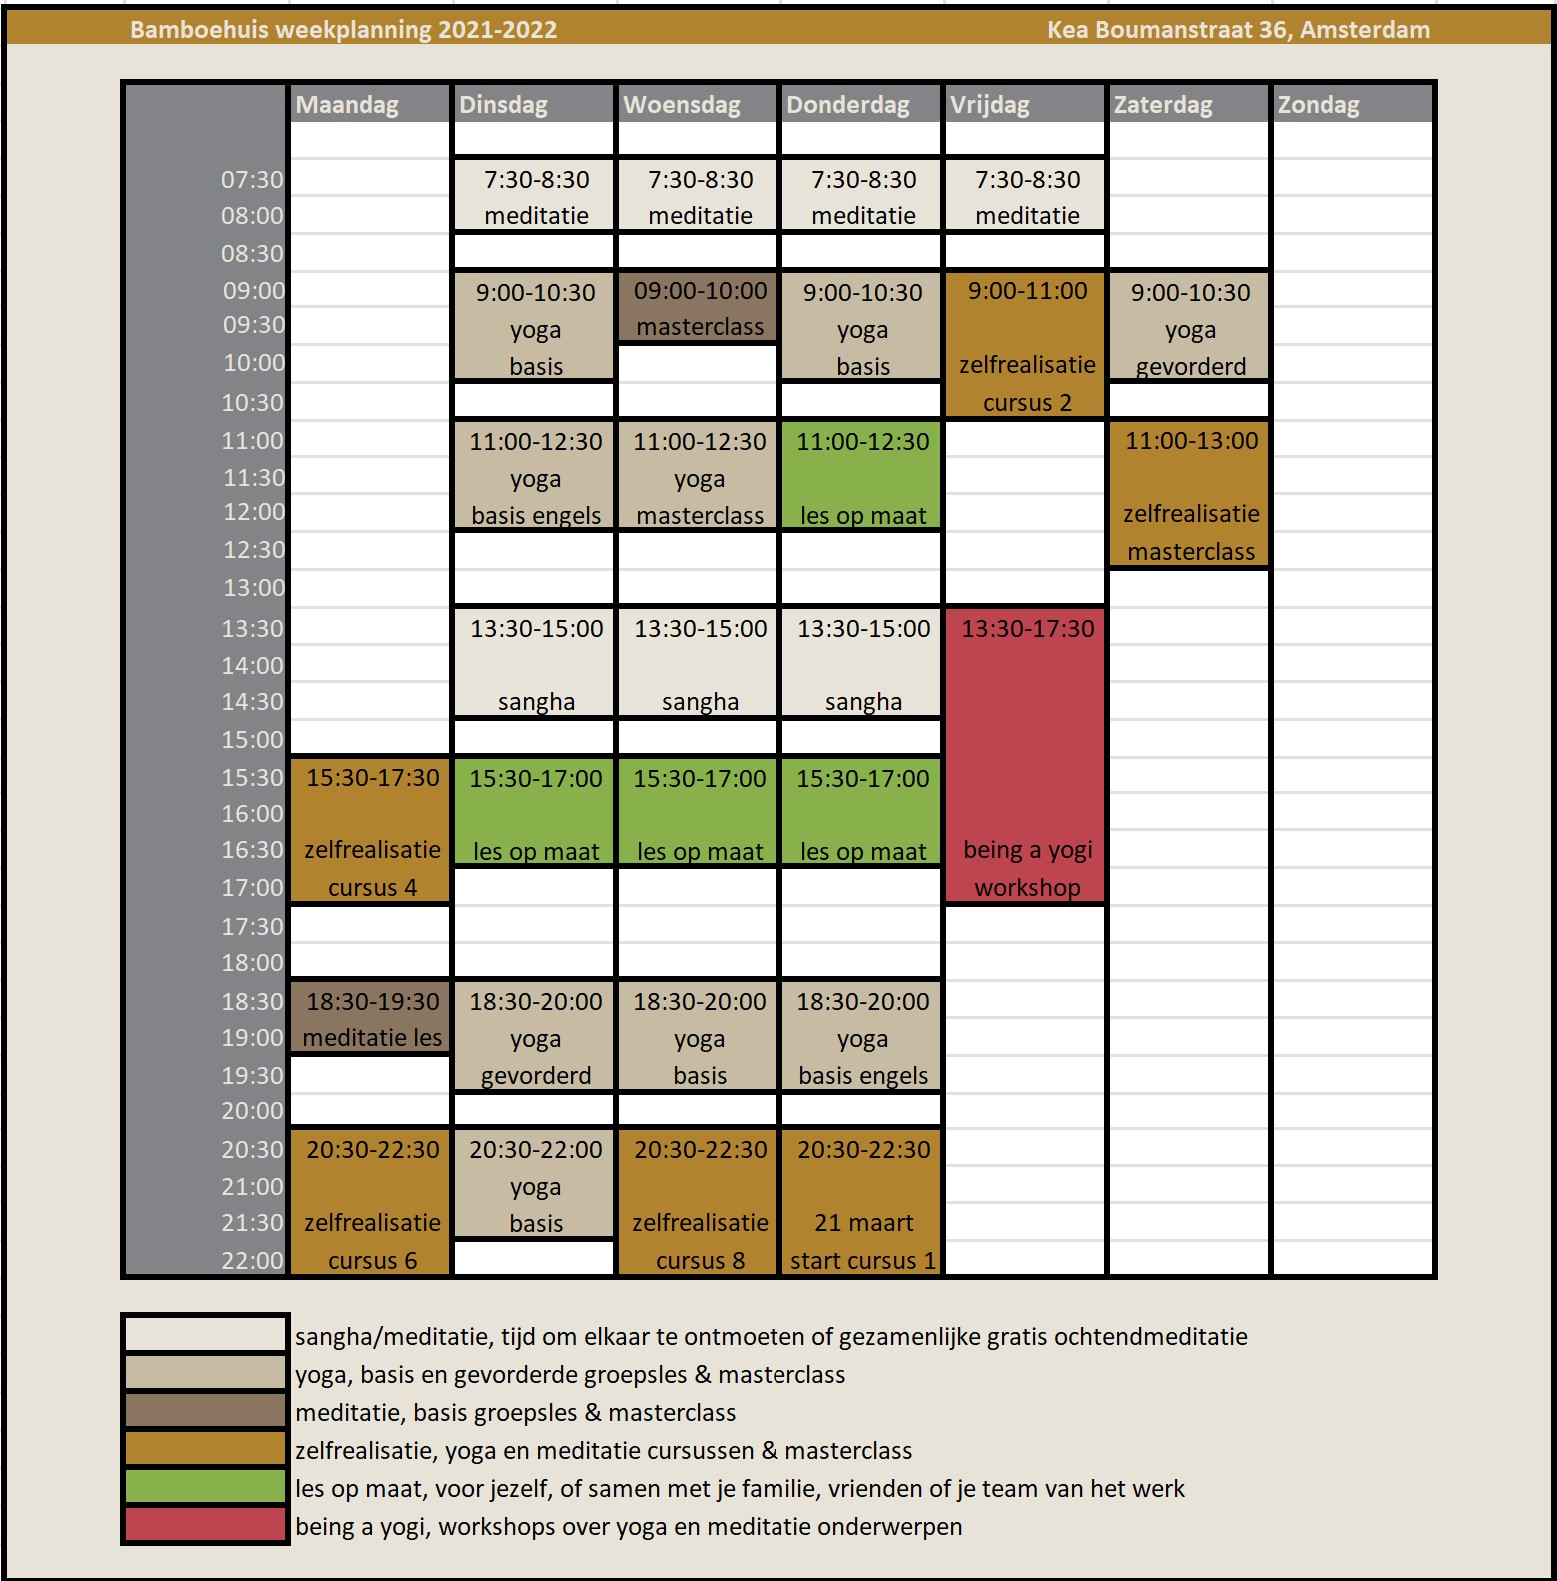
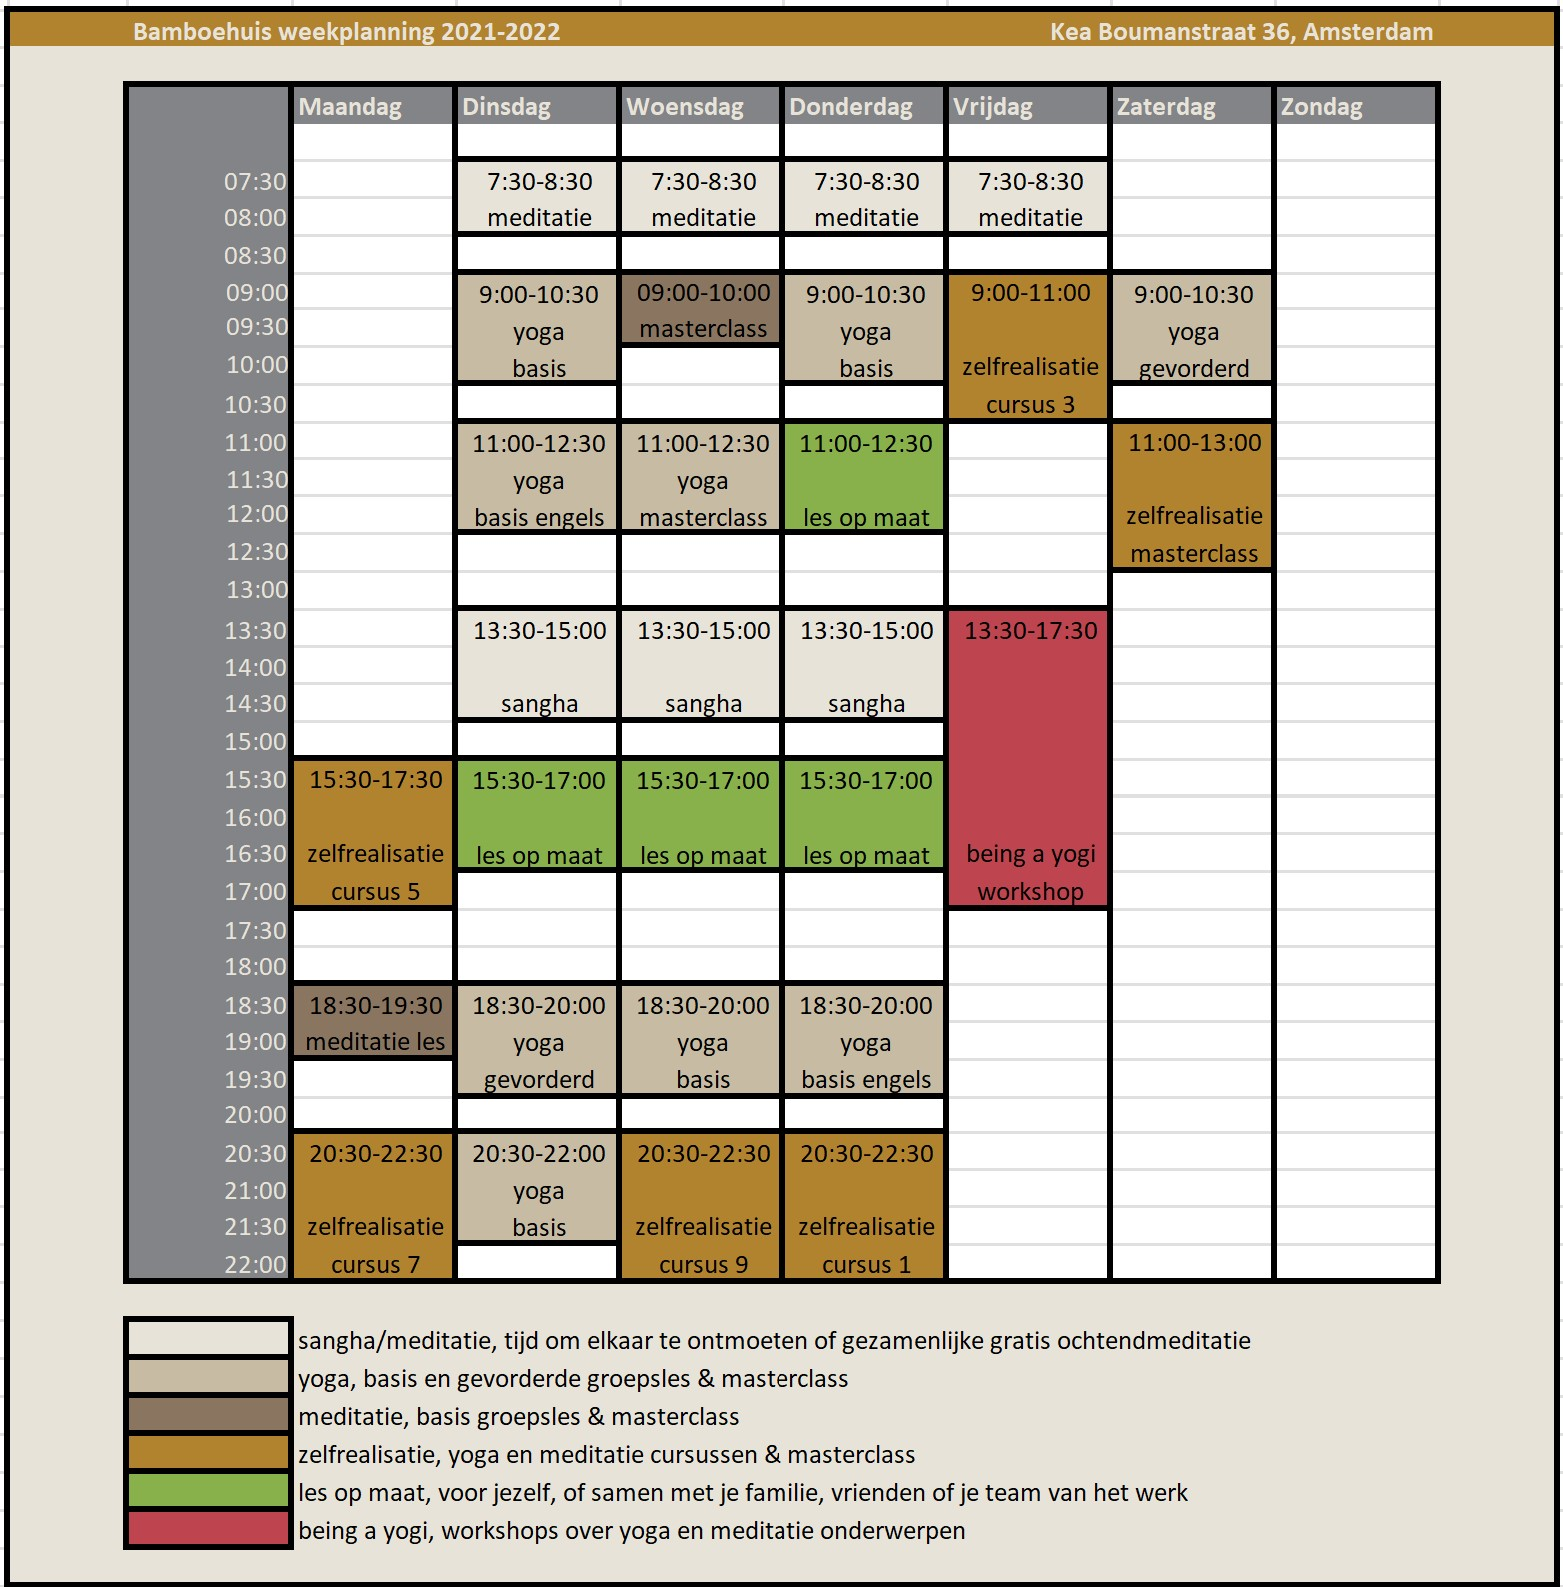
update zelfrealisatie cursus tijden

diff --git a/zelfrealisatielessen.html b/zelfrealisatielessen.html
@@ -381,27 +381,6 @@ Heb je ergens anders een soortgelijke yogaopleiding gedaan, een yoga docentenopl
                         <p>In september 2021 starten weer nieuwe cursussen.</p>
                         <br clear="left"/>
 
-                        <p><b>Start 6 september 2021</b></p>
-						<ul>
-						<li>Maandag 15:30-17:30 – cursus 3</li>
-						<li>Maandag 20:30-22:30 – cursus 5</li>
-						<li>Woensdag 20:30-22:30 – cursus 7</li>
-						<li>Donderdag 20:30-22:30 – cursus 9</li>
-						<li>Vrijdag 9:00-11:00 – cursus 1</li>
-						<li>Zaterdag 11:00-13:00 – masterclass</li>
-						</ul>
-						<br/>
-
-                        <p><b>Start 6 december 2021</b></p>
-						<ul>
-						<li>Maandag 15:30-17:30 – cursus 4</li>
-						<li>Maandag 20:30-22:30 – cursus 6</li>
-						<li>Woensdag 20:30-22:30 – cursus 8</li>
-						<li>Vrijdag 9:00-11:00 – cursus 2</li>
-						<li>Zaterdag 11:00-13:00 – masterclass</li>
-						</ul>
-						<br/>
-
                         <p><b>Start 21 maart 2022</b></p>
 						<ul>
 						<li>Maandag 15:30-17:30 – cursus 5</li>
@@ -412,7 +391,28 @@ Heb je ergens anders een soortgelijke yogaopleiding gedaan, een yoga docentenopl
 						<li>Zaterdag 11:00-13:00 – masterclass</li>
 						</ul>
 						<br/>
-                        
+
+                        <p><b>Start 5 september 2022</b></p>
+						<ul>
+						<li>Maandag 15:30-17:30 – cursus 6</li>
+						<li>Maandag 20:30-22:30 – cursus 8</li>
+						<li>Donderdag 20:30-22:30 – cursus 2</li>
+						<li>Vrijdag 9:00-11:00 – cursus 4</li>
+						<li>Zaterdag 11:00-13:00 – masterclass</li>
+						</ul>
+						<br/>
+
+                        <p><b>Start 5 december 2022</b></p>
+						<ul>
+						<li>Maandag 15:30-17:30 – cursus 7</li>
+						<li>Maandag 20:30-22:30 – cursus 9</li>
+						<li>Woensdag 20:30-22:30 – cursus 1</li>
+						<li>Donderdag 20:30-22:30 – cursus 3</li>
+						<li>Vrijdag 9:00-11:00 – cursus 5</li>
+						<li>Zaterdag 11:00-13:00 – masterclass</li>
+						</ul>
+						<br/>
+
                         <!-- <p>Voordat je aan je eerste les begint ontmoet ik je graag persoonlijk voor een gratis gesprek.</p>-->
 
                        <p class="text-center"><a href="mailto:herman@dompseler.nl?subject=aanmelden%20lessen%20zelfrealisatie&body=" class="btn btn-success btn-lg" role="button">Neem contact op per email</a></p>

diff --git a/index.html b/index.html
@@ -606,6 +606,11 @@ Heb je interesse? Je bent welkom! Kom naar het Bamboehuis op Zeeburgereiland in 
 <br/><b>1095 MA Amsterdam</b>
 </p>
 <p>
+<!--
+<iframe src="https://docs.google.com/forms/d/e/1FAIpQLSckSdCoPl5H3hKrowbYRsK963iHumwuwn0Dg1mZcbcJs--zmg/viewform?embedded=true" width="640" height="729" frameborder="0" marginheight="0" marginwidth="0">Laden…</iframe>
+</p>
+<p>
+-->
 Of bel of mail voor aanmelding naar Evelien of Herman
 <br/>Mobiel: 0641506559 (evelien)
 <br/>Mail: <a href="mailto:evelien@dompseler.nl?subject=contact%20Bamboehuis&body=">evelien@dompseler.nl</a> of <a href="mailto:herman@dompseler.nl?subject=contact%20Bamboehuis&body=">herman@dompseler.nl</a>
